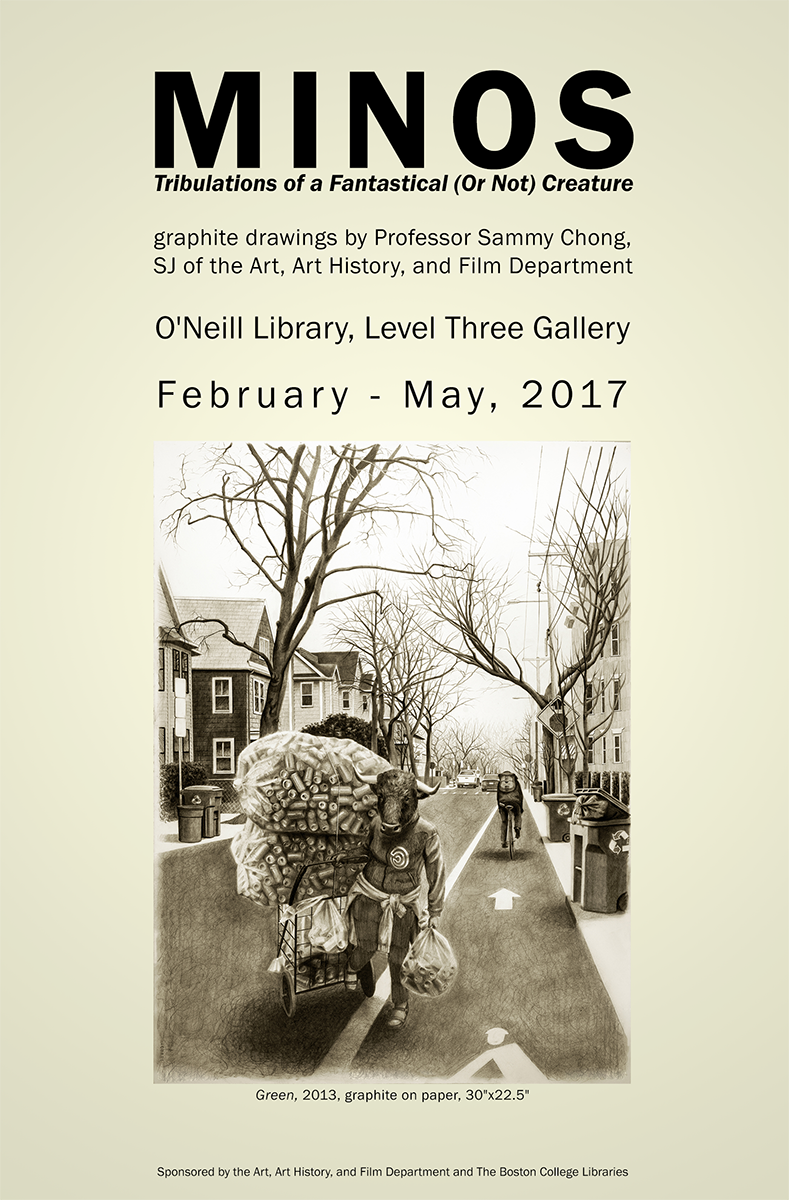
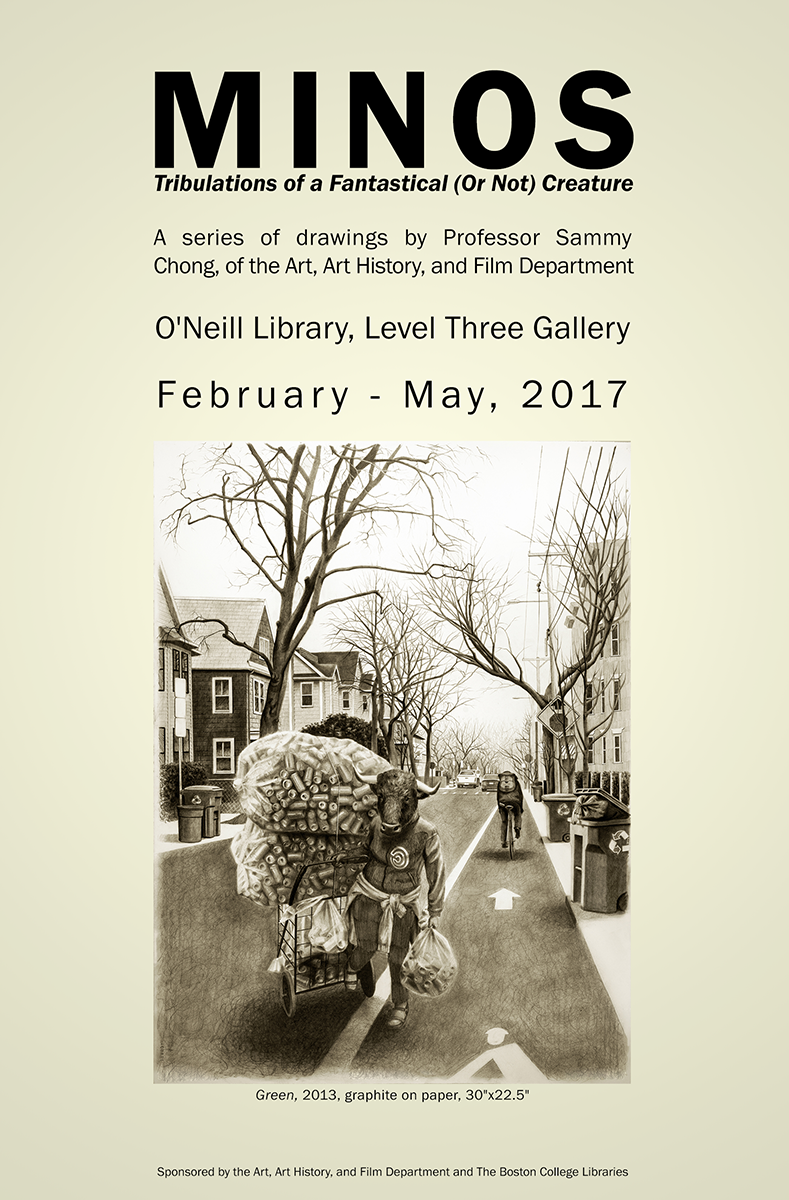
Exhibit minor type edit

Changed region(s): [[0.1825, 0.185, 0.8213, 0.2467]]

diff --git a/content/news/exhibits/lvl3-2017-02-Green.md b/content/news/exhibits/lvl3-2017-02-Green.md
@@ -1,7 +1,7 @@
 Date: 2017-02-21 01:01 
 Date_range: February - May, 2017
 Title: Minos: Tribulations of a Fantastical (Or Not) Creature
-Subtitle: Graphite drawings by Professor Sammy Chong, SJ of the Art, Art History, and Film Department
+Subtitle: A series of drawings by Professor Sammy Chong, of the Art, Art History, and Film Department
 Sponsor: Sponsored by the Art, Art History, and Film Department and The Boston College Libraries
 Location: lvl3
 Tags: exhibit
